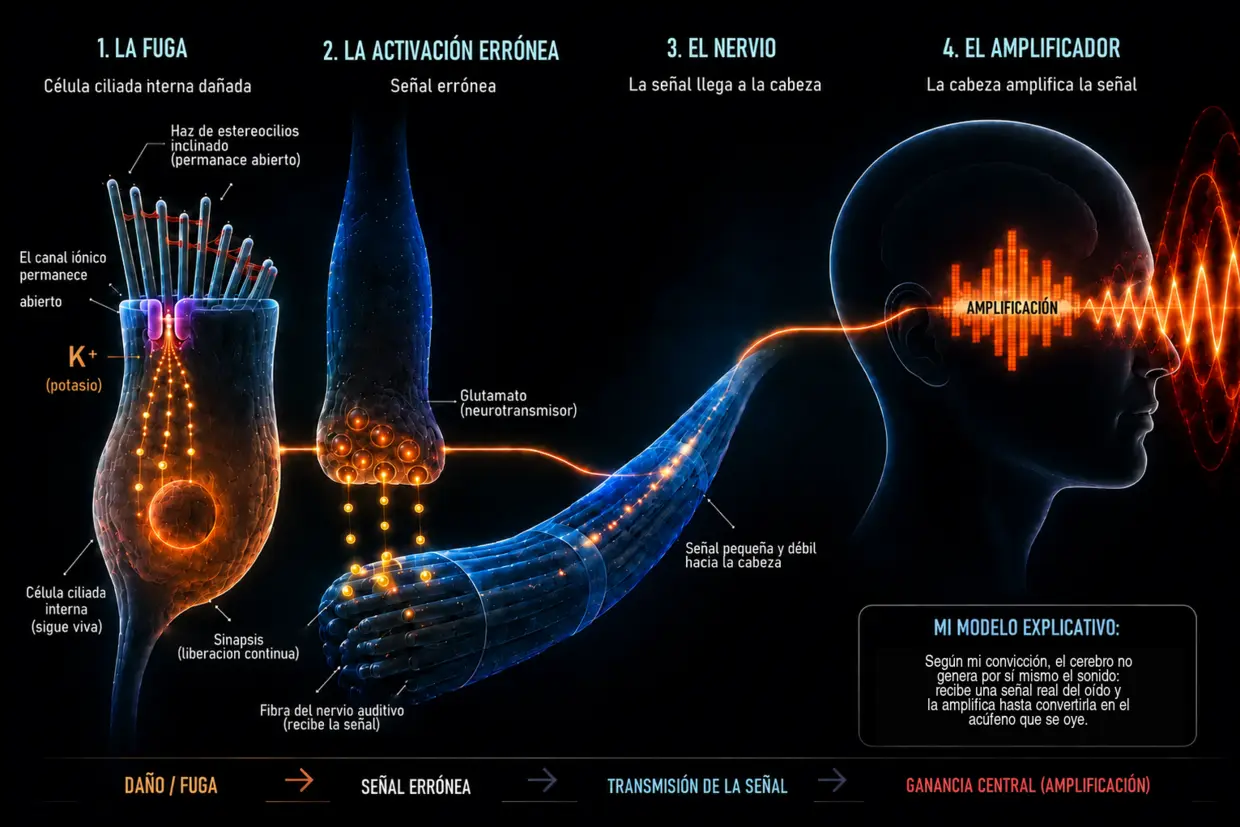
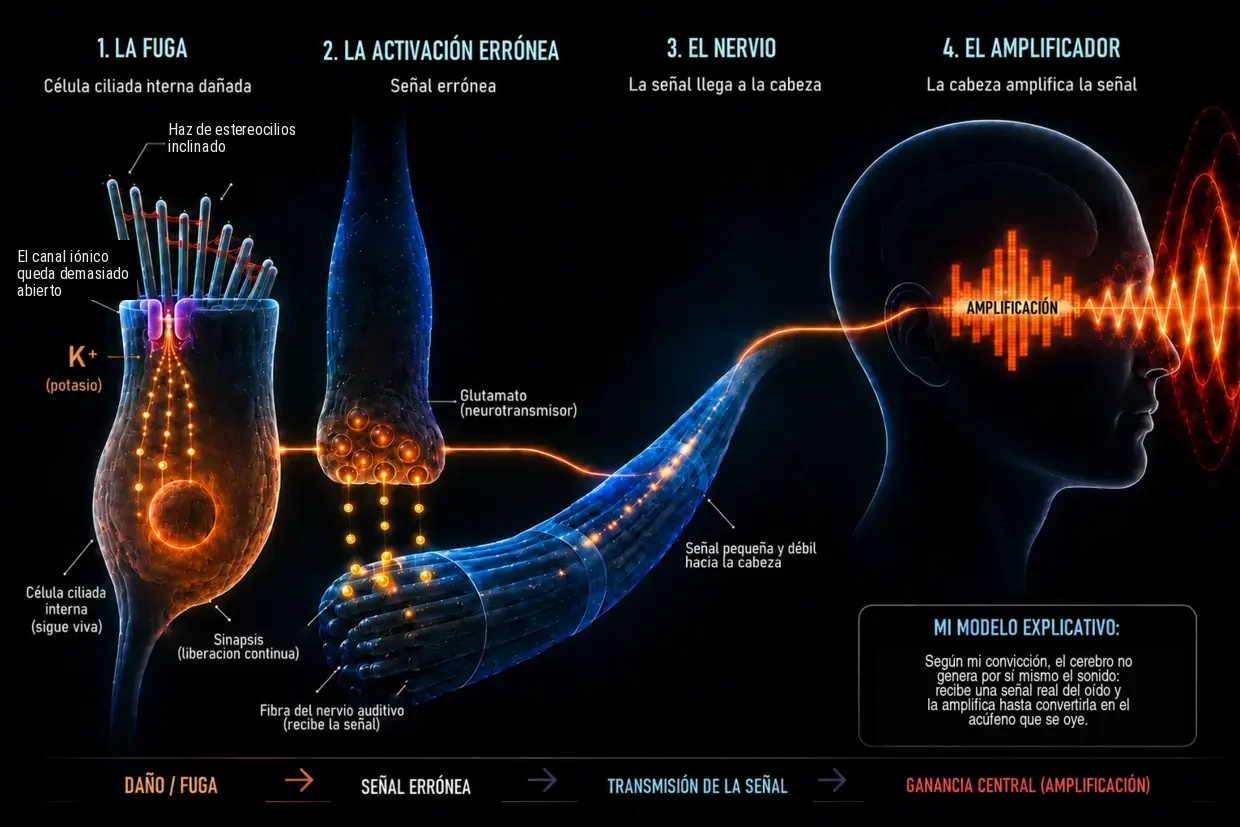
Prepare audited Spanish noise-induced tinnitus page

Changed region(s): [[0.0, 0.2721, 0.1226, 0.393], [0.1226, 0.1511, 0.2452, 0.2116]]

diff --git a/es/acufenos-por-ruido.html b/es/acufenos-por-ruido.html
@@ -53,7 +53,7 @@
       "@id": "https://tinnitusbioregulation.com/es/#dustin",
       "name": "Dustin Müller",
       "url": "https://tinnitusbioregulation.com/es/",
-      "description": "Afectado y autor autopublicado. Ha superado por completo dos episodios de acúfenos crónicos provocados por ruido —la mejoría del primer episodio está documentada mediante varios audiogramas— y también ha dejado atrás un síndrome de fatiga crónica (SFC) grave. Además, experimentó en carne propia hasta qué punto el estrés interno persistente y los conflictos no resueltos pueden sobrecargar el sistema nervioso, y cómo el trabajo específico sobre esos conflictos le ayudó a devolver el equilibrio a su sistema nervioso autónomo. No es médico y comparte exclusivamente su experiencia personal e información obtenida mediante investigación.",
+      "description": "Afectado y autor autopublicado. Ha superado por completo dos episodios separados de acúfenos crónicos provocados por ruido —la mejoría del primer episodio está documentada mediante varios audiogramas— y también ha dejado atrás un síndrome de fatiga crónica (SFC) grave. Además, experimentó en carne propia hasta qué punto el estrés interno persistente y los conflictos no resueltos pueden sobrecargar el sistema nervioso, y cómo el trabajo específico sobre esos conflictos le ayudó a devolver el equilibrio a su sistema nervioso autónomo. No es médico y comparte exclusivamente su experiencia personal e información obtenida mediante investigación.",
       "knowsAbout": [
         "Acúfenos",
         "Acúfenos por ruido",
@@ -125,7 +125,7 @@
       </ul>
     </nav>
     <details class="lang-switch">
-      <summary aria-label="Idioma: Español" title="Idioma: Español">
+      <summary aria-label="Idioma: español" title="Idioma: español">
         <span class="lang-current" aria-hidden="true">ES</span>
         <span class="lang-switch-caret" aria-hidden="true"></span>
       </summary>
@@ -172,15 +172,15 @@
     <img src="../img/laerm-hero.webp" alt="Representación simbólica del ruido cotidiano que actúa sobre el oído, desencadenante de los acúfenos por ruido" width="1240" height="827" fetchpriority="high" style="display: block; width: 100%; max-width: 100%; height: auto; border-radius: 5px; border: 1px solid var(--rule); margin: 0;">
   </a>
   <h1>Acúfenos por ruido: cuando el oído llega al límite</h1>
-  <p style="font-size:14px;opacity:.65;margin-top:6px;">Última actualización: junio de 2026</p>
+  <p style="font-size:14px;opacity:.65;margin-top:6px;">Última actualización: agosto de 2026</p>
 
   <p class="lede">Esta es <strong>mi propia explicación</strong>, basada en años de investigación y en mis dos episodios de acúfenos, que superé por completo; no es el estándar médico.</p>
 
   <p>También yo padecía entonces esta enfermedad extrema, como ya había contado en mi biografía.</p>
   <p>Estaba tan desesperado que me había jurado: o se van los acúfenos o me voy yo. (Por supuesto, no lo decía tan en serio, pero de verdad estaba sometido a una presión inmensa.)</p>
   <p>Lo que viví entonces fue, sobre todo, un tono fuerte, estridente y de alta frecuencia en el oído izquierdo, acompañado de un ruido de fondo muy lejano. Era lo peor que en aquel momento podía imaginar; y, para colmo, poco después empeoró claramente el tono débil que ya había aparecido en el oído derecho el tercer día, como consecuencia directa de unas indicaciones médicas que, en mi caso personal, resultaron ser del todo equivocadas.</p>
-  <p>En esencia, esas «indicaciones» consistían en tapar el tono con otros sonidos, por ejemplo, con música por auriculares a mayor volumen o con un ruido continuo. Pero en realidad eso significaba exponer mis oídos a todavía más estímulos sonoros, aunque ya estaban sometidos a una sobrecarga enorme. Visto en retrospectiva, fue uno de mis mayores errores, porque precisamente eso empeoró mi estado y agravó claramente el tono débil que ya había en el oído derecho.</p>
-  <p>Ese sonido era como un ataque permanente contra mis nervios, mi sueño y toda mi vida. Los médicos me decían que tenía que aprender a vivir con él. En internet encontré terapias que se contradecían entre sí. Para mí, todo sonaba a desconcierto.</p>
+  <p>En esencia, esas «indicaciones» consistían en tapar el tono con otros sonidos, por ejemplo, con música por auriculares a mayor volumen o con un ruido continuo. Pero en realidad eso significaba exponer mis oídos a todavía más estímulos sonoros, aunque ya estaban sometidos a una sobrecarga enorme. Visto en retrospectiva, aquello fue uno de los mayores errores, porque precisamente eso empeoró mi estado y agravó claramente el tono débil que ya había en el oído derecho.</p>
+  <p>Ese sonido era como un ataque permanente contra mis nervios, mi sueño y toda mi vida. Los médicos me decían que tenía que aprender a vivir con él. En internet encontré terapias que se contradecían entre sí. Para mí, todo sonaba a que nadie sabía qué hacer.</p>
   <p>Así que me juré: esto no podía ser todo. Empecé a investigar como un obseso, a leer estudios, comparar testimonios y formarme mi propia idea. Poco a poco surgió un mecanismo claro, una imagen que para mí tenía lógica y que mis propias experiencias también confirmaron más adelante.</p>
   <p>Hoy puedo decirlo: los acúfenos por ruido no son un misterio. Son el resultado de que el oído se haya sobrecargado; y cuando se entiende qué ocurre, también se entiende por qué está ahí ese sonido y qué puede hacer uno mismo.</p>
 
@@ -195,7 +195,7 @@
       <li><a href="#dach-haus-keller">El principio del tejado, la casa y el sótano</a></li>
       <li><a href="#tinnitus-entsteht">Cómo se convierte todo esto en un tono</a></li>
       <li><a href="#maskierung">Por qué las aplicaciones de ruido son lo peor</a></li>
-      <li><a href="#hoffnung">Por qué es posible reparar</a></li>
+      <li><a href="#hoffnung">Por qué la reparación es posible</a></li>
       <li><a href="#fazit">Conclusión y pasos siguientes</a></li>
     </ol>
   </nav>
@@ -218,16 +218,16 @@
 
   <p>Normalmente, la audición funciona como una reacción en cadena de gran precisión:</p>
   <p><strong>El impulso:</strong> un estímulo sonoro alcanza los finos «pelitos» —los estereocilios— de las células ciliadas y los dobla hacia un lado.</p>
-  <p><strong>La tracción mecánica (enlaces de punta):</strong> como las puntas de estos estereocilios están unidas entre sí por filamentos proteicos extremadamente finos —los enlaces de punta o <em>tip links</em>—, al doblarse se genera tensión. Estos filamentos funcionan como un cable mecánico: tiran físicamente del canal iónico situado en la punta y lo abren, como cuando se tira del tapón de una bañera.</p>
+  <p><strong>La tracción mecánica (enlaces de punta):</strong> como las puntas de estos estereocilios están unidas entre sí por filamentos proteicos extremadamente finos —los llamados enlaces de punta o <em>tip links</em>—, al doblarse se genera tensión. Estos filamentos funcionan como un sistema mecánico de tracción por cable: tiran físicamente del canal iónico situado en la punta y lo abren, como cuando se tira del tapón de una bañera.</p>
   <p><strong>La entrada:</strong> como el oído interno está lleno de un líquido rico en potasio, por el canal que acaba de abrirse entra de inmediato potasio (K+) en el estereocilio, y también pequeñas cantidades de calcio.</p>
   <p><strong>La activación:</strong> esta entrada de potasio modifica la tensión eléctrica de la célula ciliada interna —despolarización—. Eso abre de forma secundaria canales de calcio situados más abajo en la propia célula ciliada interna: no están en los estereocilios, sino en el cuerpo celular que hay debajo.</p>
-  <p><strong>La señal:</strong> solo entonces el calcio que entra en la célula ciliada interna provoca la liberación de los neurotransmisores que envían la señal al cerebro a través del nervio auditivo.</p>
+  <p><strong>La señal:</strong> solo entonces el calcio que entra en la célula ciliada interna provoca la liberación de los neurotransmisores que disparan la señal hacia el cerebro a través del nervio auditivo.</p>
   <p><strong>El reinicio:</strong> después, unos transportadores especializados —tanto en los estereocilios como en el cuerpo de la célula ciliada— vuelven a bombear hacia fuera el exceso de potasio y calcio con ayuda del ATP —la energía celular—, de modo que la célula puede calmarse.</p>
 
   <p>Este sistema está diseñado para que haya continuamente un pequeño «abrir y cerrar», como un ritmo respiratorio. Lo decisivo es que, en reposo, el canal de la punta del estereocilio no está cerrado por completo, sino siempre un poco abierto; esto es normal y está previsto así para que la célula pueda reaccionar de inmediato incluso al sonido más leve. Mientras el estereocilio se mantenga recto, esa apertura permanece mínima y controlada. Pero si queda inclinado hacia un lado de forma permanente, el canal permanece demasiado abierto; y ahí empieza el problema.</p>
 
   <div class="callout">
-    <p>Antes de ver qué ocurre cuando este sistema se sobrecarga, una idea importante: cuando aparecen acúfenos crónicos después de un trauma acústico, muchas personas afectadas piensan —y muchos médicos también transmiten esa impresión— que las células ciliadas del oído han quedado destruidas de forma irreversible y que ahora el cerebro produce el tono por sí solo, a partir del recuerdo. Estoy convencido de que esa explicación se queda corta. Una célula ciliada interna muerta ya no envía ninguna señal: está muda. Precisamente porque el tono ESTÁ ahí, la célula ciliada interna que emite la señal todavía tiene que estar viva. El acúfeno no es la señal de una célula ciliada interna muerta, sino la de una célula ciliada interna que lucha por sobrevivir. Es perfectamente posible que un daño por ruido también destruya definitivamente algunas células ciliadas, pero, según mi interpretación, esas células no intervienen directamente como fuente de la señal de los acúfenos porque ya no envían ninguna señal. Según mi modelo, el tono procede de las células ciliadas internas que siguen ahí y luchan, y que han quedado atrapadas en un estado de pérdida funcional causada por falta de energía.</p>
+    <p>Antes de ver qué ocurre cuando este sistema se sobrecarga, una idea importante: cuando aparecen acúfenos crónicos después de un trauma acústico, muchas personas afectadas piensan —y muchos médicos también transmiten esa impresión— que las células ciliadas del oído han quedado destruidas de forma irreversible y que ahora el cerebro produce el tono por sí solo, a partir del recuerdo. Estoy convencido de que esa explicación se queda corta. Precisamente porque el tono ESTÁ ahí, estoy convencido de que en algún punto del tejido periférico que todavía puede excitarse tiene que generarse una señal errónea activa. En mi cadena principal, esa señal procede de una célula ciliada interna que sigue viva, pero está desregulada. En otras situaciones periféricas, la fuente también podría ser un nervio auditivo vivo que dispara de forma errónea por problemas de mielina o por inflamación. En cambio, el tejido completamente muerto ya no envía ninguna señal.</p>
   </div>
 
   <p><em>Lo que sigue es una explicación detallada y paso a paso de esta pérdida funcional. Quien prefiera una versión más breve encontrará un resumen más arriba.</em></p>
@@ -244,7 +244,7 @@
 
   <h3>Etapa 1: el colapso energético</h3>
   <p>Recordemos el proceso normal de audición: con cada estímulo sonoro entran iones en la célula y después hay que volver a bombearlos hacia fuera, consumiendo ATP. Con un volumen normal, el ritmo es tranquilo: la célula bombea sin prisas y dispone de energía de sobra. Pero a 100 decibelios en una discoteca, las ondas sonoras golpean los estereocilios sin cesar y con una fuerza brutal. Los canales se abren de golpe, entran iones en masa y las bombas sencillamente ya no dan abasto. El consumo de energía se dispara.</p>
-  <p>Las células ciliadas consumen ahora muchísima más energía de la que pueden reponer. Las centrales energéticas normales de la célula —las mitocondrias— trabajan al límite. Para poder saciar de algún modo esa enorme hambre de energía, la célula recurre a una vía de emergencia más rápida, pero sucia: la glucólisis anaerobia. Este modo de emergencia proporciona energía de inmediato, pero genera como residuo ácido láctico —lactato—, que acidifica el entorno celular. Debido a esa acidez, las enzimas encargadas de producir energía funcionan cada vez peor: una espiral descendente.</p>
+  <p>Las células ciliadas queman ahora muchísima más energía de la que pueden reponer. Las centrales energéticas normales de la célula —las mitocondrias— trabajan al límite. Para poder saciar de algún modo esa enorme hambre de energía, la célula recurre a una vía de emergencia más rápida, pero sucia: la glucólisis anaerobia. Este modo de emergencia proporciona energía de inmediato, pero genera como residuo ácido láctico —lactato—, que acidifica el entorno celular. Debido a esa acidez, las enzimas encargadas de producir energía funcionan cada vez peor: una espiral descendente.</p>
   <p><em>La comparación con el deporte: todo el mundo conoce esta sensación al levantar pesas o esprintar. Al cabo de un tiempo, el músculo empieza a «arder» —aumenta el lactato— y llega un momento en que sencillamente deja de responder: el clásico fallo muscular. En el oído interno ocurre exactamente el mismo fallo químico, con la diferencia de que no se siente como dolor, sino como una pérdida funcional.</em></p>
   <p>Y justo aquí acecha el verdadero peligro: cuando las bombas dejan de dar abasto, el calcio se acumula dentro de los estereocilios. En pequeñas cantidades, este calcio es normal y necesario; pero, si sobra, se convierte en un destructor. La etapa 2 muestra qué destruye y por qué resulta tan grave.</p>
 
@@ -257,14 +257,14 @@
 
   <div class="analogy-box">
     <div class="analogy-eyebrow">Una imagen para seguir el razonamiento · La analogía de los espaguetis</div>
-    <p>Toma un solo espagueti crudo: puedes doblarlo y romperlo con facilidad. Ahora toma cien espaguetis y pégalos con pegamento instantáneo hasta formar una barra firme: de repente tienes un tubo rígido que apenas se dobla. Cada filamento por separado es débil, pero pegados son fuertes.</p>
-    <p>Así funciona el estereocilio: como espaguetis pegados con pegamento instantáneo. No son los filamentos de actina por sí solos los que le dan rigidez, sino su unión mediante las proteínas entrecruzadoras de actina.</p>
+    <p>Toma un solo espagueti crudo: puedes doblarlo y romperlo con facilidad. Ahora toma cien espaguetis y pégalos con pegamento instantáneo hasta formar una barra firme: de repente tienes un tubo rígido que apenas se dobla. Cada filamento por separado es débil, pero todos juntos, pegados entre sí, son fuertes.</p>
+    <p>Así funciona el estereocilio: no son los filamentos de actina por sí solos los que le dan rigidez, sino el conjunto que forman gracias a las proteínas entrecruzadoras de actina.</p>
   </div>
 
   <p>Cuando las calpaínas devoran ese pegamento, ocurre lo contrario: el tubo rígido vuelve a convertirse en filamentos individuales sueltos. Los filamentos de actina siguen dentro del estereocilio, siguen ahí, pero sin las uniones que hay entre ellos ya no se mantienen juntos. El estereocilio pierde rigidez, no porque se haya desprendido ninguna parte, sino porque le falta la cohesión interna.</p>
   <p>Si la persona permanece en la discoteca, a menudo la situación empeora todavía más: los filamentos individuales, ahora desprotegidos y separados, pueden llegar a <strong>romperse</strong> en sus puntos débiles bajo la presión sonora continua, como espaguetis sueltos que se quiebran bajo carga sin el apoyo de los que tienen al lado. Y cuando se rompe un filamento, aumenta la carga sobre los filamentos vecinos, que a su vez pueden romperse: existe el riesgo de un efecto en cascada.</p>
   <p><strong>El resultado:</strong> sin su soporte interno, el estereocilio ya no puede mantener la posición erguida y se deforma. Para imaginar lo que eso significa, ayuda esta imagen: los estereocilios se disponen uno al lado de otro en filas, con distintas alturas, y sus puntas están unidas entre sí por finos enlaces de punta. En condiciones sanas, todos los estereocilios están perfectamente rectos; los enlaces que hay entre ellos tienen exactamente la tensión adecuada y, en reposo, el canal solo está mínimamente abierto. Cuando llega una onda sonora, los estereocilios se inclinan brevemente hacia un lado, los enlaces se tensan y el canal se abre; en cuanto pasa la onda, vuelven a su posición y todo se relaja. Un abrir y cerrar limpio.</p>
-  <p>Ahora imagina que esos mismos estereocilios ya no están rectos, sino que quedan inclinados, incluso SIN que llegue ninguna onda. Los enlaces entre ellos están sometidos permanentemente a una tensión distinta de la prevista. Al mismo tiempo, la membrana también está deformada. Por eso, el canal ya queda demasiado abierto incluso en reposo. A partir de ese momento entran potasio y calcio en la célula de manera permanente y descontrolada, aunque hace tiempo que la música ha dejado de sonar. <strong>Se ha formado una fuga permanente y, con ella, la base de los acúfenos.</strong> La célula ciliada interna envía una señal aunque no haya sonido, porque la geometría ya no es la correcta.</p>
+  <p>Ahora imagina que esos mismos estereocilios ya no están rectos, sino que quedan inclinados, incluso SIN que llegue ninguna onda. Los enlaces entre ellos están sometidos permanentemente a una tensión distinta de la prevista. Al mismo tiempo, la membrana también está deformada. Por eso, el canal ya queda demasiado abierto incluso en reposo. A partir de ese momento entran potasio y calcio en la célula de manera permanente y descontrolada, aunque hace tiempo que la música ha dejado de sonar. <strong>Se ha formado una fuga permanente y, con ella, la base de los acúfenos.</strong> La célula ciliada interna dispara una señal aunque no haya sonido, porque la geometría ya no es la correcta.</p>
   <figure class="photo-figure">
     <a href="../img/es-estereocilios-geometria.webp" data-lightbox="Comparación entre estereocilios sanos y dañados — Dustin Müller" style="cursor: zoom-in; display: block; border-radius: 5px; overflow: hidden;">
       <img src="../img/es-estereocilios-geometria.webp" alt="Comparación entre estereocilios sanos y dañados del oído interno: a la izquierda, estereocilios completamente rectos; a la derecha, algunos estereocilios localmente desalineados, con los enlaces de punta sometidos a tensión permanente y un canal iónico demasiado abierto" width="1240" height="698" loading="lazy" style="display: block; width: 100%; max-width: 100%; height: auto; border-radius: 5px; border: 1px solid var(--rule); margin: 0;">
@@ -272,7 +272,7 @@
     <figcaption>A la izquierda, normal; a la derecha, tras el daño por ruido: algunos estereocilios quedan desalineados localmente, los enlaces de punta quedan sometidos a tensión permanente y el canal permanece más abierto.</figcaption>
   </figure>
 
-  <p>En la mayoría de las personas afectadas, los acúfenos empiezan relativamente pronto después del ruido, entre unos minutos y unas pocas horas. Sin embargo, también hay casos en los que no aparecen hasta horas o incluso días más tarde. En la sección de preguntas frecuentes explico con detalle por qué puede variar tanto y qué papel desempeñan determinadas estructuras del oído.</p>
+  <p>Los acúfenos por ruido pueden hacerse notar justo después de la exposición al ruido, pero también pueden percibirse conscientemente por primera vez horas o días más tarde. En mi caso, el tono no me llamó la atención hasta el tercer día; hasta hoy no sé con certeza por qué. En las preguntas frecuentes presentaré expresamente las posibles explicaciones como hipótesis.</p>
 
   <h3>Etapa 3: el rescate de emergencia y por qué no basta</h3>
   <p>La célula detecta el daño y activa de inmediato un mecanismo de supervivencia: unas proteínas reparadoras especiales, como XIRP2, que ya están almacenadas como reserva de emergencia en el cuerpo celular, se precipitan hacia las zonas dañadas. Si se han roto filamentos, se enrollan alrededor de las roturas —los espaguetis de la etapa 2— como una cinta adhesiva molecular ultrarresistente e impiden que se partan por completo y que la cascada se descontrole. Esta es la <strong>fase 1: la estabilización aguda de emergencia.</strong> El proceso es rápido —de minutos a horas— porque XIRP2 no tiene que fabricarse primero: solo se recluta hacia la zona dañada. El estereocilio sobrevive, pero el armazón sigue blando e inestable, porque XIRP2 no puede sustituir las proteínas entrecruzadoras de actina que faltan entre los filamentos.</p>
@@ -367,14 +367,14 @@
     </svg>
     <figcaption>Esquema: la fuga del tejado obliga a las bombas de arriba y abajo a trabajar sin descanso. Las mitocondrias de la casa sí suministran energía, pero todo se destina a sobrevivir y nada a reparar.</figcaption>
   </figure>
-  <p><strong>El tejado:</strong> los finos estereocilios, con su armazón de actina debilitado, están atrapados en el modo de emergencia de la fase 1. Aquí arriba está la fuga y aquí es donde debería trabajar la maquinaria de construcción. Pero, en lugar de eso, las propias bombas del tejado están ocupadas expulsando sin cesar el potasio que entra y, sobre todo, el peligroso calcio; porque, si aquí arriba el calcio vuelve a superar el umbral crítico, las enzimas degradantes podrían reactivarse y agravar el daño.</p>
+  <p><strong>El tejado:</strong> los finos «pelitos sensoriales» (estereocilios), con su armazón de actina debilitado, están atrapados en el modo de emergencia de la fase 1. Aquí arriba está la fuga y aquí es donde debería trabajar la maquinaria de construcción. Pero, en lugar de eso, las propias bombas del tejado están ocupadas expulsando sin cesar el potasio que entra y, sobre todo, el peligroso calcio; porque, si aquí arriba el calcio vuelve a superar el umbral crítico, las enzimas degradantes podrían reactivarse y agravar el daño.</p>
   <p><strong>La casa:</strong> el cuerpo celular propiamente dicho, de gran tamaño, y el ÚNICO lugar donde se encuentran las centrales energéticas —las mitocondrias— que producen el ATP para todas las partes de la célula. Por el tejado roto entran ahora iones sobrantes sin interrupción.</p>
   <p><strong>El sótano:</strong> aquí abajo también hay bombas iónicas que tienen que sacar a paladas y a la desesperada el calcio filtrado, a contracorriente, para que la casa no se inunde por completo y la célula no muera.</p>
   <p>Como las bombas del tejado y las del sótano consumen la mayor parte de la energía disponible solo para evitar que el edificio acabe bajo el agua, a la célula ya no le quedan recursos para enviar a los obreros y reparar el daño del armazón de actina. La reparación se pospone sin límite. La fuga sigue abierta. Las bombas trabajan a destajo. La rueda de hámster sigue girando.</p>
 
   <h2 class="section-title" id="tinnitus-entsteht">De la lucha por sobrevivir al tono: así surgen los acúfenos</h2>
   <a href="../img/es-cascada-acufenos.webp" data-lightbox="De la lucha por sobrevivir al tono: así surgen los acúfenos — Dustin Müller" style="cursor: zoom-in; display: block; border-radius: 5px; overflow: hidden; margin: 24px auto;">
-    <img src="../img/es-cascada-acufenos.webp" alt="Cascada esquemática de los acúfenos por ruido: desde la fuga de iones en el estereocilio dañado, pasando por el neurotransmisor glutamato y el nervio auditivo, hasta el centro auditivo del cerebro, que amplifica la señal" width="1240" height="827" loading="lazy" style="display: block; width: 100%; max-width: 100%; height: auto; border-radius: 5px; border: 1px solid var(--rule); margin: 0;">
+    <img src="../img/es-cascada-acufenos.webp" alt="Cascada esquemática de los acúfenos por ruido: desde la fuga de iones en la célula ciliada interna dañada, pasando por el neurotransmisor glutamato y el nervio auditivo, hasta el centro auditivo del cerebro, que amplifica la señal" width="1240" height="827" loading="lazy" style="display: block; width: 100%; max-width: 100%; height: auto; border-radius: 5px; border: 1px solid var(--rule); margin: 0;">
   </a>
   <p>Ya sabemos que la fuga permanente sigue ahí y que la célula está atrapada en la rueda de hámster. Pero ¿cómo se convierte eso en un tono audible? El potasio que entra sin cesar mantiene toda la célula ciliada interna bajo tensión eléctrica permanente —despolarizada—: nunca vuelve a su potencial de reposo. A su vez, esta tensión continua abre canales de calcio dependientes del voltaje situados más abajo en la célula ciliada interna, por los que ahora gotea constantemente algo de calcio hacia la sinapsis. Ese calcio provoca una liberación ligera e ininterrumpida del neurotransmisor glutamato hacia el nervio auditivo. El cerebro recibe una señal permanente de «¡FUEGO!», aunque no haya ningún sonido, y traduce ese cortocircuito químico en un sonido.</p>
 
@@ -390,30 +390,30 @@
 
   <div class="callout callout-warn callout-strong">
     <div class="callout-eyebrow">⚠ Atención · El error más frecuente</div>
-    <p>Aquí está, según mi experiencia, el error más grave que cometen las personas afectadas por recomendación médica. La recomendación clásica es: «Tape el tono con ruido blanco, sonidos de la naturaleza o música suave». Parece intuitivamente lógico y, de hecho, alivia a corto plazo. Pero, según mi interpretación, es desastroso desde el punto de vista bioquímico.</p>
+    <p>Aquí está, según mi experiencia, el error más grave que cometen las personas afectadas por recomendación médica. La recomendación clásica es: «Tape el tono con ruido blanco, sonidos de la naturaleza o música suave». Parece intuitivamente lógico y, de hecho, alivia a corto plazo. Pero, tal como yo lo entiendo, bioquímicamente es fatal.</p>
   </div>
 
   <p>Hay que tener claro que los estereocilios siguen vivos y activos, pero están inclinados. En realidad, la célula intenta aprovechar cada fase de reposo —sobre todo durante el sueño— para reparar la estructura con la poca energía que le queda y volver a erguirse.</p>
-  <p>Pero si se siguen exponiendo artificialmente los oídos a más sonido, se obliga a los estereocilios dañados a volver al modo de trabajo. Tienen que reaccionar otra vez al sonido, bombear iones y consumir precisamente la energía que habían reservado para la fase 2, la verdadera reparación. Y hay un segundo problema: cada onda sonora hace que, dentro del haz de filamentos de actina dañado, los filamentos se deslicen unos contra otros. Debido a ese movimiento continuo, las proteínas entrecruzadoras de actina recién insertadas vuelven a desprenderse antes de poder fijarse bien, como un peldaño que se intenta colocar en una escalera mientras alguien la sacude.</p>
+  <p>Pero si se siguen exponiendo artificialmente los oídos a más sonido, se obliga a los estereocilios dañados a volver al modo de trabajo. Tienen que reaccionar otra vez al sonido, bombear iones y consumir precisamente la energía que habían reservado para la fase 2, la verdadera reparación. Y hay un segundo problema: cada onda sonora hace que, dentro del haz de filamentos de actina dañado, los filamentos se deslicen unos contra otros. Debido a ese movimiento continuo, las proteínas entrecruzadoras de actina recién insertadas vuelven a soltarse a fuerza de sacudidas antes de poder fijarse bien, como un peldaño que se intenta colocar en una escalera mientras alguien la sacude.</p>
   <p>En la imagen del tejado, la casa y el sótano, la exposición artificial al sonido azota mecánicamente el tejado, que ya está blando. La fuga sigue demasiado abierta. Las bombas del sótano tienen que funcionar al límite absoluto las veinticuatro horas del día. Para los obreros de arriba, en el tejado, queda cero energía.</p>
   <aside class="margin-note">
     <span class="margin-note-label">Por experiencia propia</span>
     Yo mismo cometí ese error. Durante meses. Por la noche parece lo correcto, pero por la mañana el tono está más fuerte. Precisamente esta información me habría ahorrado años.
   </aside>
   <p>Esto explica un fenómeno que yo mismo viví y que también relatan incontables personas afectadas: por la noche, quien enmascara los acúfenos con ruido se siente mejor a corto plazo, pero a la mañana siguiente los acúfenos están más agresivos y más fuertes que la noche anterior. La razón es que la célula ha quemado su turno de noche —su única ventana de reparación— procesando el sonido artificial.</p>
-  <p>Quiero decir algo con total sinceridad: entiendo perfectamente por qué algunas personas pueden vivir bien con el enmascaramiento. Si los acúfenos arrastran a alguien al abismo psicológico y hacen imposible dormir, taparlos a corto plazo puede ser literalmente una medida que le salve la vida; y no quiero disuadir de ello a nadie que se encuentre así. Pero, para la regeneración propiamente dicha —es decir, para que los acúfenos realmente vuelvan a desaparecer—, el enmascaramiento es contraproducente según mi interpretación. Esa es la diferencia que quiero señalar.</p>
+  <p>Quiero decir algo con total sinceridad: entiendo perfectamente por qué algunas personas pueden vivir bien con el enmascaramiento. Si los acúfenos arrastran a alguien al abismo psicológico y hacen imposible dormir, taparlos a corto plazo puede salvarle literalmente la vida; y no quiero disuadir de ello a nadie que se encuentre así. Pero, para la regeneración propiamente dicha —es decir, para que los acúfenos realmente vuelvan a desaparecer—, el enmascaramiento, tal como yo lo entiendo, es contraproducente. Esa es la diferencia que quiero señalar.</p>
 
-  <h2 class="section-title" id="hoffnung">La esperanza: por qué es posible reparar</h2>
+  <h2 class="section-title" id="hoffnung">La esperanza: por qué la reparación es posible</h2>
   <p>A pesar de todos estos mecanismos, hay un rayo de esperanza decisivo: como el núcleo celular está intacto y el armazón de actina sigue existiendo en lo esencial, la célula puede reparar la estructura. Los estereocilios tienen un recambio activo de actina: sus filamentos de actina se desmontan y vuelven a construirse continuamente. La célula renueva así su propia estructura sin cesar. En concreto, la fase 2 significa que los parches de XIRP2 en las roturas de los filamentos se sustituyen por actina nueva y que se insertan nuevas proteínas entrecruzadoras de actina entre los filamentos hasta que el haz de filamentos de actina vuelve a quedar firme y rígido. La cuestión no es <em>si</em> la célula puede reparar, sino si, en esas condiciones, dispone de suficiente energía y materiales de construcción, y si se le da el descanso que necesita.</p>
   <p>Incluso si el armazón interno de soporte hubiera sufrido un colapso grave, no sería un veredicto definitivo. Mientras la célula siga viva, conserva el plano y la capacidad de reconstruir ese armazón en cuanto vuelva a haber suficiente energía —ATP— y materiales de construcción y se detenga el estrés químico.</p>
   <p>Resulta interesante que la investigación farmacéutica también persiga exactamente este principio —aumentar la energía celular, el ATP—, lo que respalda mi modelo explicativo, aunque, hasta ahora, el efecto sobre el ATP y las especies reactivas de oxígeno (ERO) solo se ha mostrado en cultivos celulares. El fármaco AC102 se dirige precisamente a este mecanismo: en un modelo animal —un jerbo—, un patrón conductual típico de los acúfenos se redujo casi por completo a lo largo de cinco semanas después de una sola dosis de AC102 —al final, solo 1 de 15 animales seguía afectado, frente a una gran parte del grupo placebo—, medido mediante el reflejo de sobresalto —GPIAS—, un correlato conductual reconocido de los acúfenos. Actualmente está en marcha un ensayo clínico de fase 2 en seres humanos cuyos resultados se esperan para 2026 (<a href="/es/fuentes-cientificas">Estado de la investigación sobre AC102 en mi página de fuentes →</a>). La terapia con láser de baja intensidad —fotobiomodulación— también apunta a este enfoque energético fundamental.</p>
 
   <h2 class="section-title" id="fazit">La conclusión</h2>
-  <p>Estoy convencido de que, desde el punto de vista fisiológico, el acúfeno crónico por ruido es en realidad una célula viva atrapada en un modo energético de emergencia, cuya reparación ha quedado congelada en gran medida en la fase 1 porque falta la energía para la fase 2. El oído no está «roto» y el cerebro no se inventa una señal fantasma. El tono es el resultado de una lucha periférica real por sobrevivir que el cerebro se limita a amplificar.</p>
+  <p>En mi modelo principal, los acúfenos crónicos por ruido son, desde el punto de vista fisiológico, una señal errónea activa procedente de tejido periférico que todavía puede excitarse. En mis propios episodios, sospecho que la fuente principal estaba en células ciliadas internas vivas que habían quedado atrapadas en un modo energético de emergencia; considero posible la participación del nervio auditivo o de la mielina, pero en mi caso no puedo demostrarla con seguridad. El cerebro no crea el tono a partir de una ausencia total de señal, sino que amplifica la señal errónea que ya existe.</p>
   <p>Que el tono permanezca depende únicamente de si se ayuda a las células a cerrar la fuga y se vuelve a suministrar energía a las bombas para que el estereocilio pueda erguirse de nuevo.</p>
 
   <h2 class="section-title">Entonces, ¿qué hacer ante los acúfenos por ruido?</h2>
-  <p>Aunque los mecanismos son complejos, hay tres palancas fundamentales que conviene entender de inmediato. En mi página sobre mi enfoque explico con detalle en qué consisten y cómo me ayudaron entonces a librarme por completo de los acúfenos en dos ocasiones.</p>
+  <p>Aunque los mecanismos son complejos, hay tres palancas fundamentales que conviene entender de inmediato. En mi página sobre mi enfoque explico con detalle en qué consisten y cómo me ayudaron entonces, en dos ocasiones, a librarme de mis acúfenos hasta que desaparecieron por completo.</p>
   <p><strong>En la página siguiente explico en qué consisten esas tres palancas y cómo me ayudaron entonces.</strong></p>
 
   <a class="cta-card" href="/es/mi-enfoque">
@@ -428,11 +428,11 @@
   <p>Lo trágico es que, después de la discoteca, la energía se recupera en parte, pero las bombas consumen casi toda esa energía solo para controlar la fuga permanente y mantener viva la célula. No queda nada para la verdadera reparación: fabricar nuevas proteínas entrecruzadoras de actina y volver a levantar el armazón. La célula queda atrapada en la rueda de hámster. Que los acúfenos sean temporales o se vuelvan crónicos depende de cuánto pegamento se haya destruido —poco: reparable; mucho: rueda de hámster—, de si se deja descansar el oído o se lo sigue exponiendo al sonido —según mi experiencia, enmascararlos con ruido empeora la situación— y de si el cuerpo recibe suficiente energía y materiales de construcción. La buena noticia es que, mientras la célula siga viva, conserva el plano y la capacidad de reparación: necesita energía, materiales de construcción y descanso.</p>
 
   <h2 class="section-title">Preguntas adicionales y preguntas frecuentes</h2>
-  <p>Para quien quiera profundizar, en la <a href="/es/preguntas-frecuentes">sección de preguntas frecuentes</a> hay más temas interesantes relacionados con los acúfenos por ruido: por ejemplo, por qué puede variar su intensidad, por qué se vuelven más tenues durante un breve periodo cuando se enmascaran y por qué poco después vuelven a sonar más fuertes. Allí se explican de forma comprensible estos fenómenos cotidianos a partir de los mismos mecanismos fisiológicos descritos aquí.</p>
+  <p>Para quien quiera profundizar: en la <a href="/es/preguntas-frecuentes">sección de preguntas frecuentes</a> iré tratando otros temas relacionados con los acúfenos por ruido, por ejemplo, por qué puede variar su intensidad, por qué se vuelven más tenues durante un breve periodo cuando se enmascaran y por qué poco después vuelven a sonar más fuertes. En este momento estoy construyendo la página de preguntas frecuentes paso a paso.</p>
 
   <h2 class="section-title">Aviso importante</h2>
   <div class="callout callout-warn">
-    <p>Si tienes acúfenos o problemas de audición, especialmente si han aparecido de forma repentina, acude a un otorrinolaringólogo para que compruebe si hay causas orgánicas. Los contenidos, modelos explicativos y enfoques que comparto en esta web no son asesoramiento médico, sino mi relato personal y mi propia investigación. Cada cuerpo es distinto. No soy médico ni prometo curaciones. Aplicar los enfoques descritos aquí es responsabilidad de cada persona.</p>
+    <p>Si tienes acúfenos o problemas de audición, especialmente si han aparecido de forma aguda, acude a un otorrinolaringólogo para que compruebe si hay causas orgánicas. Los contenidos, modelos explicativos y enfoques que comparto en esta web no son asesoramiento médico, sino mi relato personal y mi propia investigación. Cada cuerpo es distinto. No soy médico ni prometo curaciones. Aplicar los enfoques descritos aquí es responsabilidad de cada persona.</p>
   </div>
 
   <!-- Footer-Navigation: vorige / nächste Seite -->
